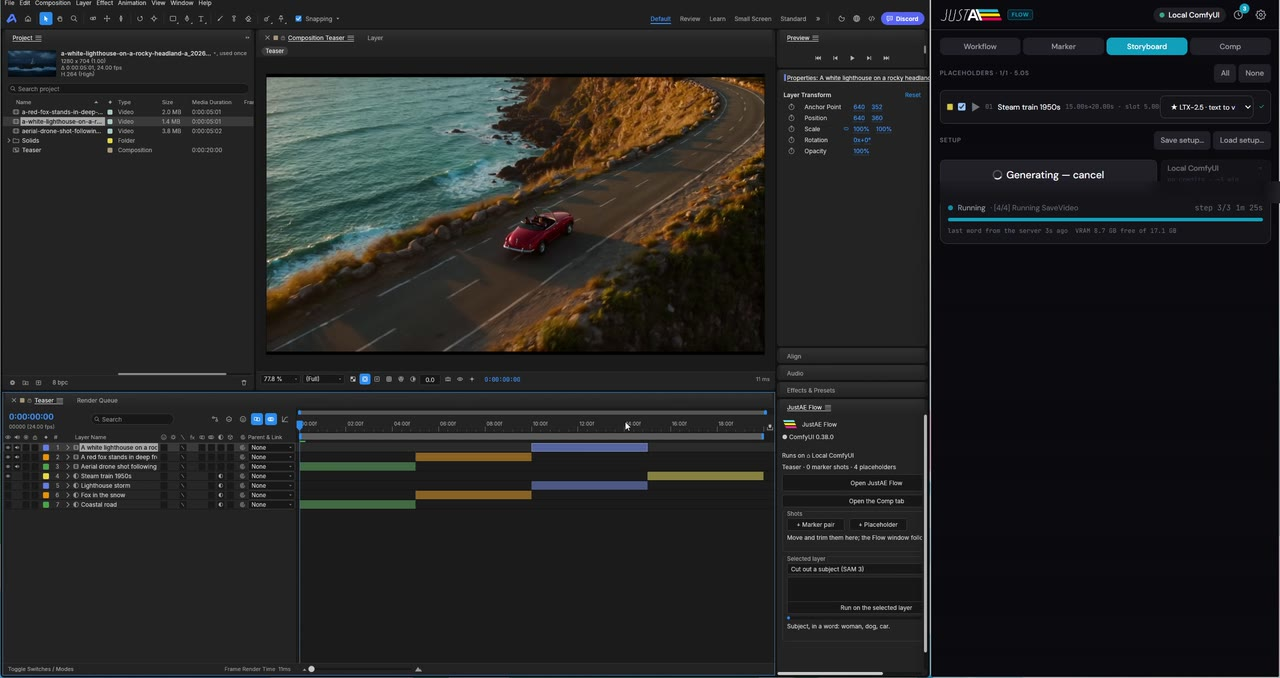
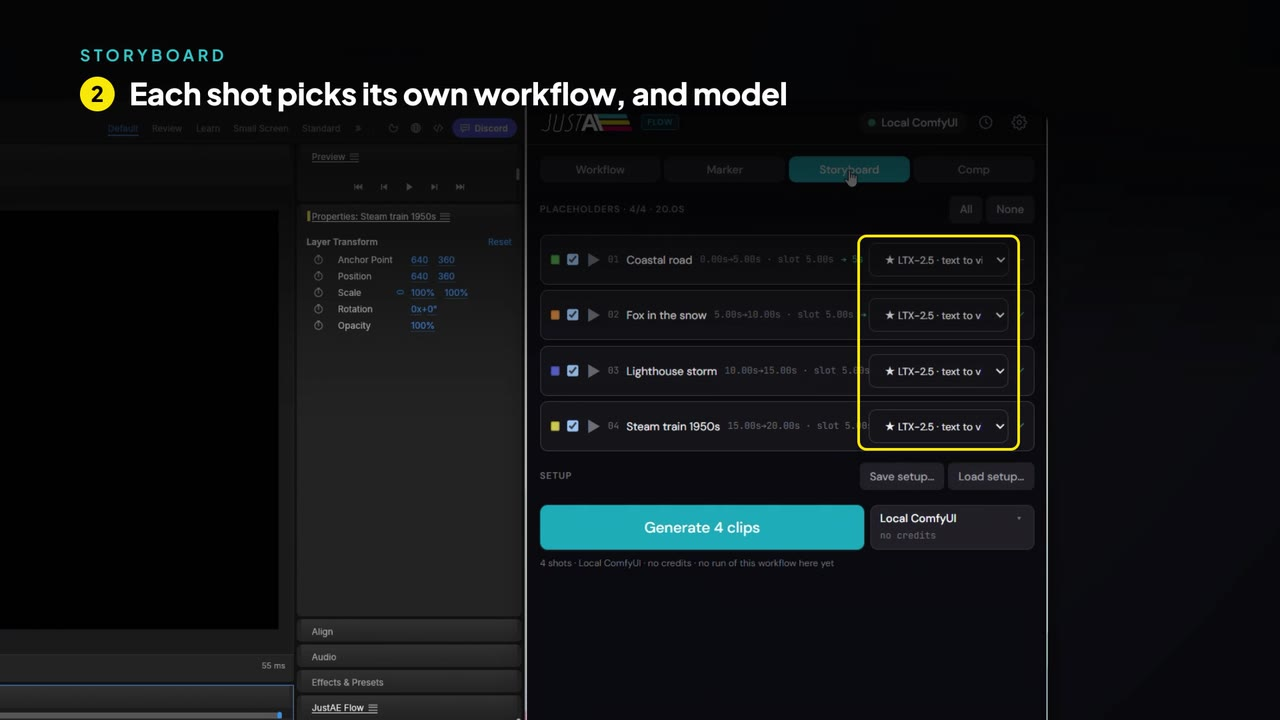
README: every shot picks its own workflow; the Comp tab's presets can be changed
The workflow section says nothing is fixed to one model: each storyboard row and each marker pair picks its own
workflow, and the Comp tab's tools are presets too. The storyboard row and its still show the Storyboard tab's rows,
each with its own workflow menu. The demo video in docs/media is the fifth cut, which walks through Storyboard and
Marker pair step by step (history rewritten locally so the repository keeps one video).

diff --git a/README.md b/README.md
@@ -40,8 +40,9 @@ ComfyUI, or imports a file; each graph is read as a form, and the comp fills in 
 **Edit in ComfyUI** opens the same workflow in the ComfyUI editor: move around it, change its nodes, models and
 settings, save with Ctrl+S, press Refresh, and the panel follows. JustAE Flow is model-agnostic: it reads a workflow's
 inputs — prompts, images, size, length — not its model, so whatever model your ComfyUI runs, the Flow can use on your
-comp. The **Featured** presets are a place to start: they say what is ready on your machine and download only the
-models you pick.
+comp. Nothing is fixed to one model: every shot, each storyboard row and each marker pair, picks its own workflow. The
+**Featured** presets are a place to start: they say what is ready on your machine and download only the models you
+pick. The Comp tab's tools are presets too, and you can change them.
 
 JustAE Flow works only with ComfyUI — yours, or Comfy's in the cloud.
 
@@ -49,10 +50,10 @@ JustAE Flow works only with ComfyUI — yours, or Comfy's in the cloud.
 
 <table>
 <tr>
-<td width="50%"><img src="docs/media/storyboard.jpg" alt="Four placeholder layers on the timeline, each filled with a generated shot"></td>
-<td><b>A storyboard from the timeline.</b> Block the cut with placeholder layers, say what happens in each, press
-Generate. LTX-2.5 makes every shot with its sound, one after the other, and drops each one in its slot, sized and
-timed by it.</td>
+<td width="50%"><img src="docs/media/storyboard.jpg" alt="The Storyboard tab: one row per placeholder layer, each with its own workflow"></td>
+<td><b>A storyboard from the timeline.</b> Block the cut with placeholder layers: each becomes a row with its own
+workflow. Say what happens in each, press Generate: every shot is made with its sound (LTX-2.5 here), one after the
+other, and dropped in its slot, sized and timed by it.</td>
 </tr>
 <tr>
 <td><img src="docs/media/transition.jpg" alt="Two clips with a marker pair around the gap, the shot between them generated"></td>
